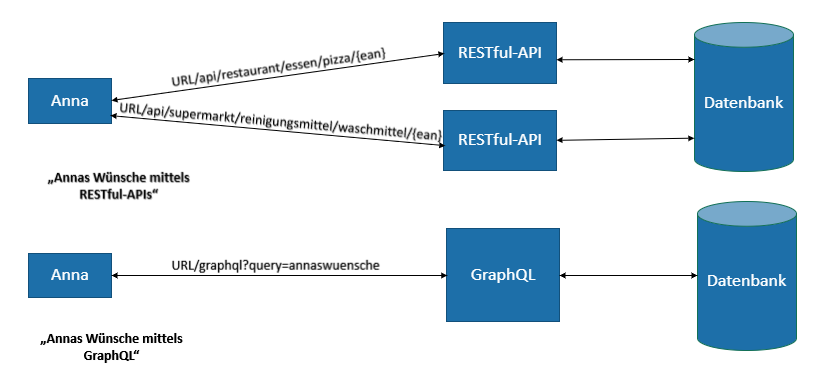
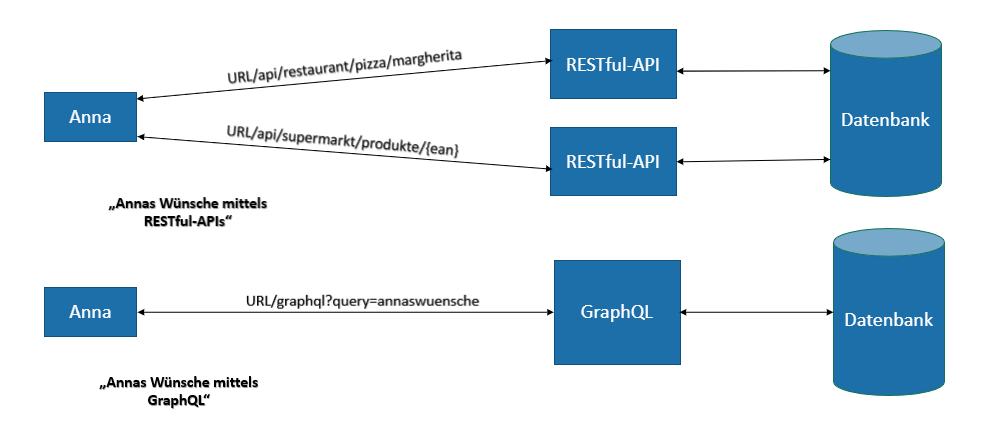
APIs Bild ergänzt

diff --git a/_posts/2019-11-15-GraphQL-ist-flexibler,-das-Ende-von-RESTful-APIs.md b/_posts/2019-11-15-GraphQL-ist-flexibler,-das-Ende-von-RESTful-APIs.md
@@ -2,7 +2,7 @@
 layout:         [post, post-xml]              
 title:          "GraphQL ist flexibler, das Ende von RESTful-APIs?"
 date:           2019-11-15 18:00
-modified_date:  2020-04-28 15:00
+modified_date:  2020-06-02 15:00
 author:         muhannaddarraj 
 categories:     [Architektur]
 tags:           [RESTful-Web-Services, GraphQL]
@@ -18,7 +18,7 @@ In aktuellen Projektsituationen hat sich das API-Design nach REST mittlerweile d
 
 Das folgende Beispiel soll die weiteren Herausforderungen dieses Architekturansatzes verdeutlichen.
 
-Stellen wir uns vor, dass der Client eine Person “Anna” ist, die zu Hause sitzt und gerne eine Pizza von einem Restaurant, sowie Waschmittel von einem Supermarkt bestellen möchte. Anna hat REST beauftragt, diese Produkte für sie zu holen. Leider kann REST nur einen Weg einschlagen, weshalb Anna zuerst nach der Pizza fragt. REST hat daraufhin alles von der Speisekarte des Restaurants an sie geliefert. Anna entnimmt ihre gewünschte Pizza und entsorgt die überschüssigen Produkte. Nachdem REST das Essen besorgt hat, macht er sich nun auf den Weg zum Supermarkt, um das von Anna geforderte Waschmittel zu beschaffen. Dabei bringt er abermals das gesamte Sortiment mit. Anna wählt das Waschmittel aus, welches sie haben möchte, und entsorgt ebenfalls alle weiteren Produkte.  
+Stellen wir uns vor, dass der Client eine Person “Anna” ist, die zu Hause sitzt und gerne eine Pizza Margherita von einem Restaurant, sowie Waschmittel von einem Supermarkt bestellen möchte. Anna hat REST beauftragt, diese Produkte für sie zu holen. Leider kann REST nur einen Weg einschlagen, weshalb Anna zuerst nach der Pizza fragt. REST hat daraufhin alles von der Speisekarte des Restaurants an sie geliefert. Anna entnimmt ihre gewünschte Pizza und entsorgt die überschüssigen Produkte. Nachdem REST das Essen besorgt hat, macht er sich nun auf den Weg zum Supermarkt, um das von Anna geforderte Waschmittel zu beschaffen. Dabei bringt er abermals das gesamte Sortiment mit. Anna wählt das Waschmittel aus, welches sie haben möchte, und entsorgt ebenfalls alle weiteren Produkte.  
 
 Aus Annas Erfahrung lassen sich deutlich die folgenden Nachteile von REST entnehmen:   
 
@@ -43,7 +43,7 @@ Der Client kann dabei ein Zeichen geben, das durch den Server zu interpretieren 
 Das bedeutet, dass Anna detailliert beschreiben sollte, wonach REST den Server fragen soll. Geeignete Endpunkte sehen zum Beispiel wie folgt aus:  
 
 * URL/api/supermarkt/produkte/{ean}
-* URL/api/restaurant/pizza/magherita
+* URL/api/restaurant/pizza/margherita
 
 Mit dieser Abfrage würde Anna genau ein gewünschtes Produkt und die Pizza erhalten.  
 Durch dieses Design konnte der Client Over und Underfetching an Daten vermeiden. Doch wie würde die Bestellung geschehen, wenn Anna noch zusätzliche Produkte haben möchte? Dann müssten wir genauso wie beim Supermarkt weitere API-Aufrufe tätigen. Da die API beim Restaurant nicht auf Standards wie EAN-Codes zurückgreift, müssen wir hier schauen, wie die anderen Ressourcen identifiziert werden können. Wie wäre es aber, wenn Anna eine ganze Liste von Produkten aus verschiedenen Ressourcen hätte? Dann brauchen wir ebenfalls mehrere REST-Endpunkte. Das bedeutet, je mehr Ressourcen aus dem Backend angefordert werden, desto mehr Endpunkte sind erforderlich. Hiermit treffen wir abermals auf das aufgelistete Problem “mehrere Endpunkte erforderlich”. 
